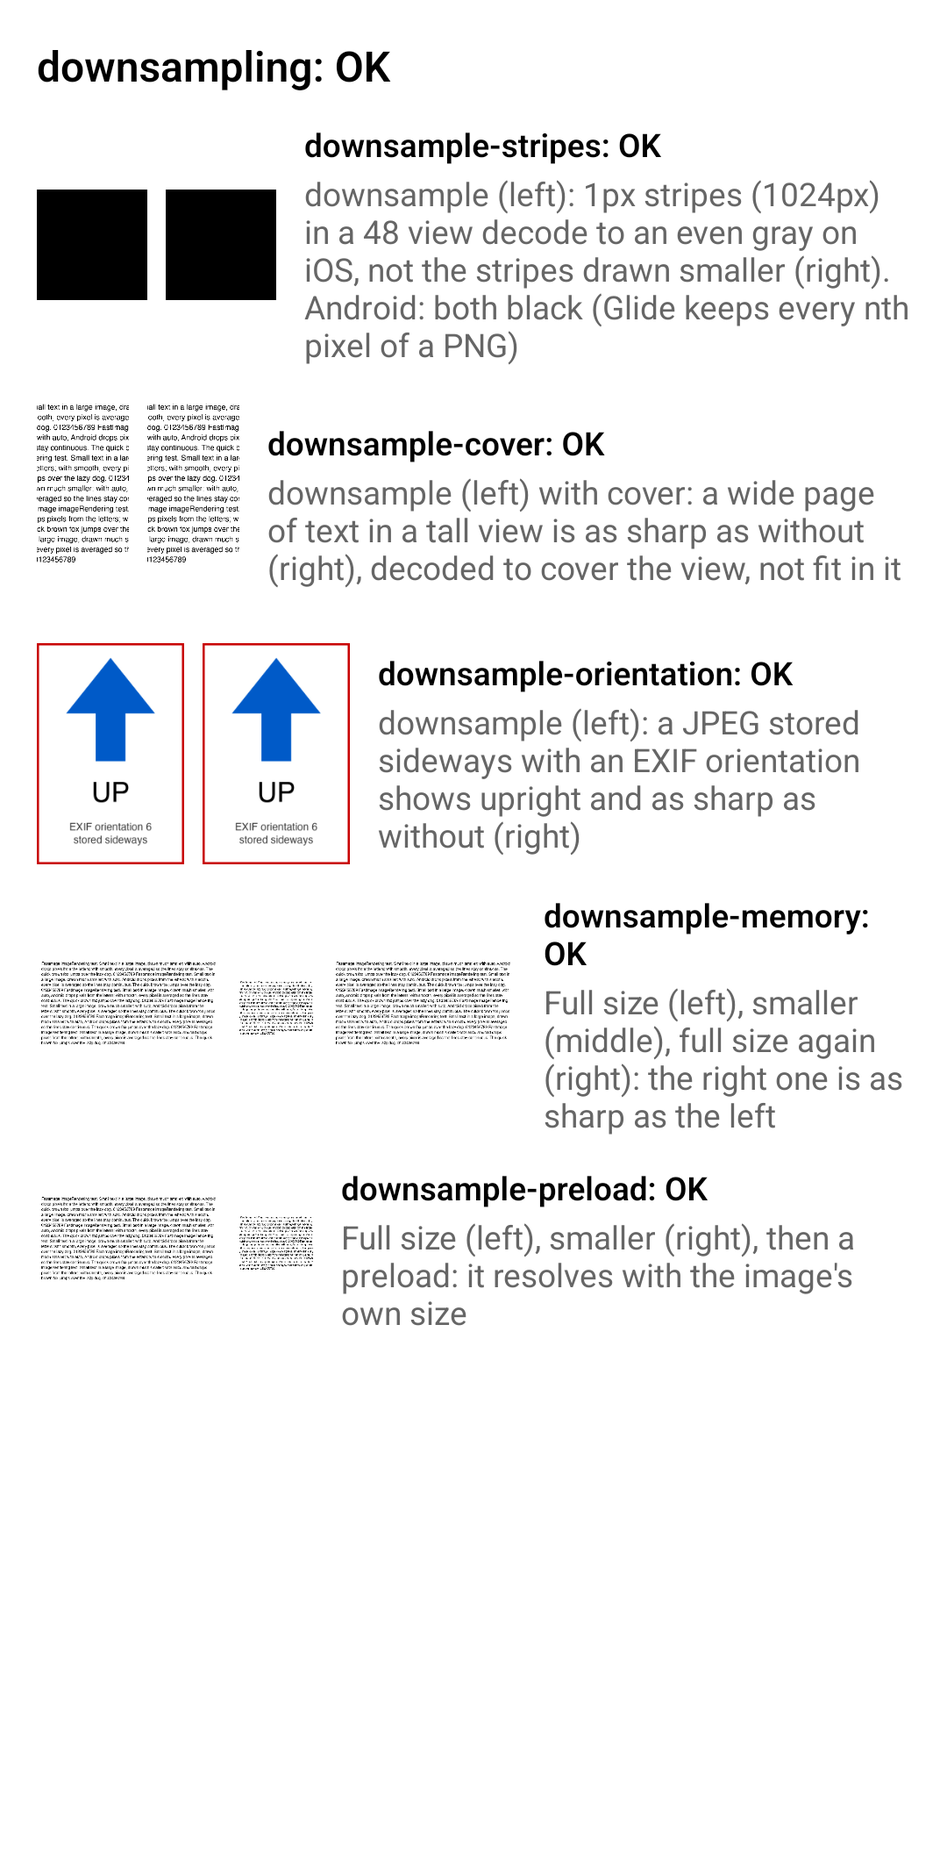
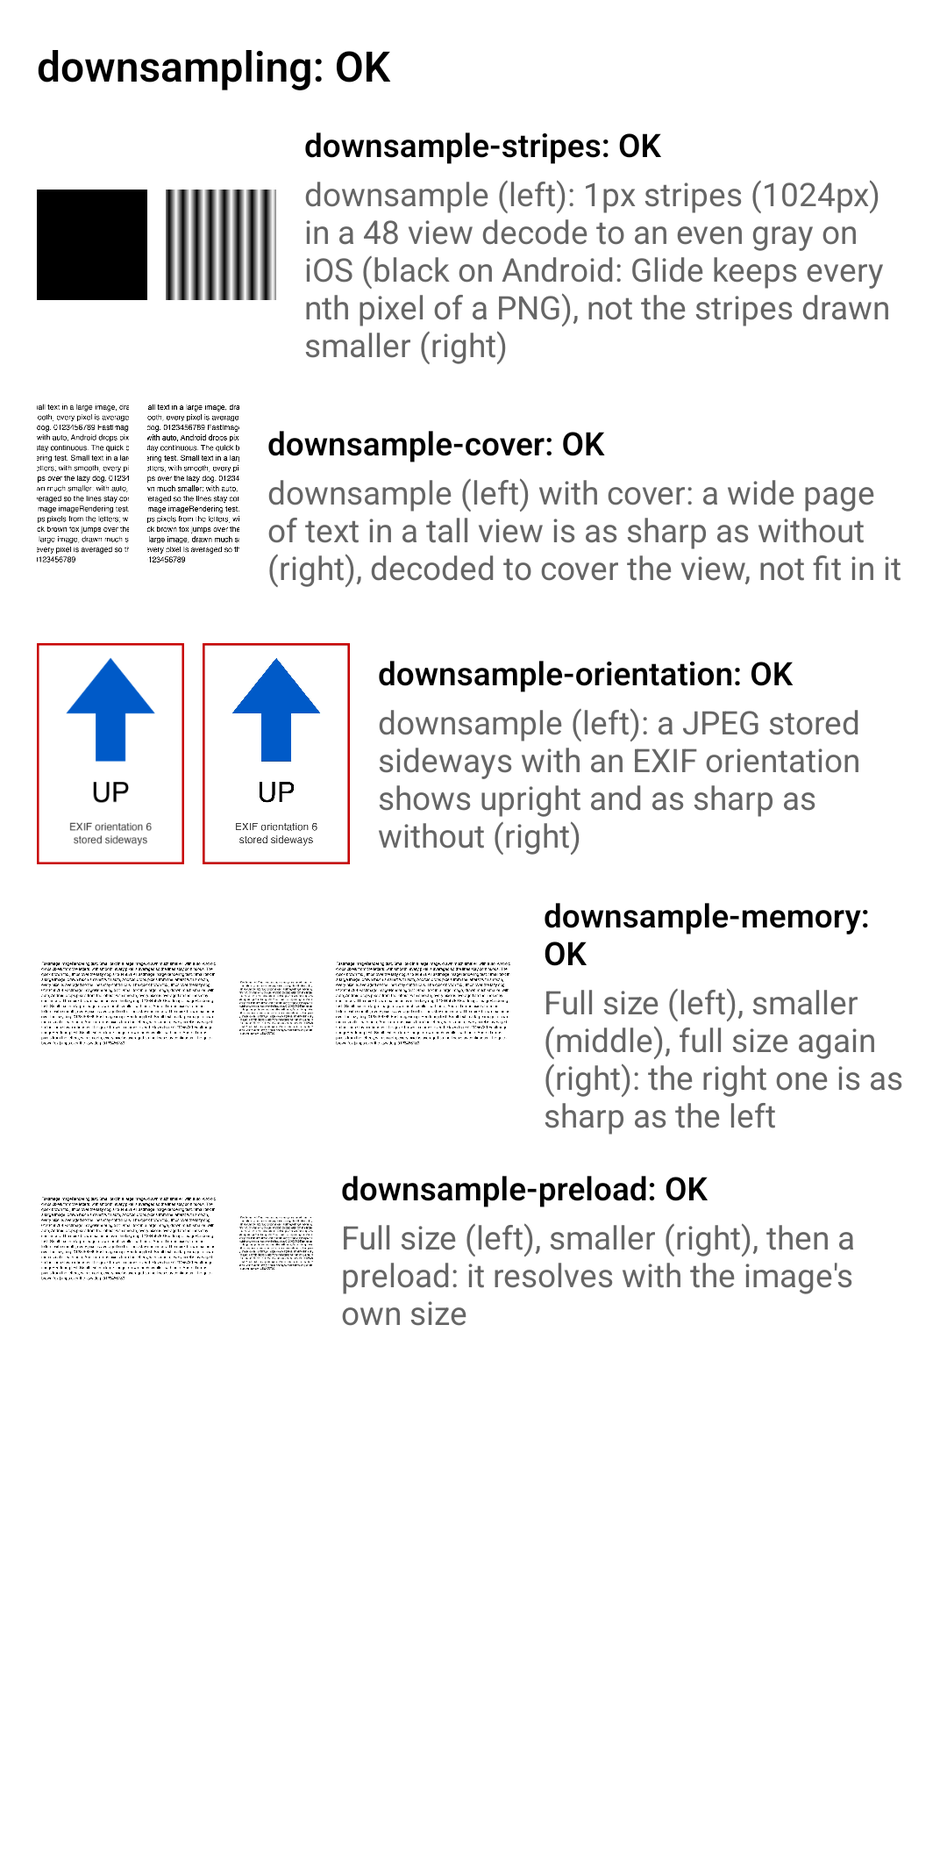
fix(android): downsample={false} decodes images at full size
Android decoded every image at about the view's size, whatever downsample
said, so an image zoomed in on with a transform showed a small copy
enlarged. With downsample false, images (GIFs included) are decoded at
their own size, scaled down to at most 16 megapixels so they can still be
drawn, and aren't cropped or fitted to the view; SVGs are still drawn at
the view's size. downsample isn't documented as iOS only anymore.

diff --git a/ReactNativeFastImageExample/src/RegressionExample.tsx b/ReactNativeFastImageExample/src/RegressionExample.tsx
@@ -6181,6 +6181,46 @@ function DownsamplePreloadCase() {
     )
 }
 
+// A view zoomed in on with a transform, as a pinch-to-zoom viewer does: a
+// page of text (1600x1000) in an 80x50 view drawn 4 times larger, its top
+// left corner showing. With downsample false (right) it's decoded at full
+// size, so the text is sharp; downsampled (left), it's decoded at about the
+// view's size, so it's enlarged and blurry. Android decoded both at about the
+// view's size.
+function DownsampleZoomCase() {
+    const [status, onLoad] = useLoadedThenOk(2)
+    const source = { uri: imageUrl('text-page.png?case=downsample-zoom') }
+    return (
+        <View style={blurStyles.stacked}>
+            <View style={blurStyles.images}>
+                {[true, false].map((downsample) => (
+                    <View
+                        key={String(downsample)}
+                        style={[
+                            downsampleStyles.zoomClip,
+                            !downsample && styles.gap,
+                        ]}
+                    >
+                        <FastImage
+                            style={downsampleStyles.zoomed}
+                            source={source}
+                            downsample={downsample}
+                            onLoad={onLoad}
+                        />
+                    </View>
+                ))}
+            </View>
+            <View style={blurStyles.status}>
+                <CaseStatus
+                    id="downsample-zoom"
+                    status={status}
+                    description="A view zoomed in on 4 times with a transform: downsampled (left) the text is blurry, with downsample={false} (right) it's sharp"
+                />
+            </View>
+        </View>
+    )
+}
+
 const downsampleStyles = StyleSheet.create({
     page: { width: 80, height: 50 },
     large: { width: 96, height: 96, backgroundColor: '#eee' },
@@ -6189,6 +6229,21 @@ const downsampleStyles = StyleSheet.create({
     fill: { flex: 1 },
     tall: { width: 40, height: 96 },
     rotated: { width: 64, height: 96 },
+    zoomClip: {
+        width: 140,
+        height: 88,
+        overflow: 'hidden',
+        backgroundColor: '#eee',
+    },
+    // Scaled about its center, so it spans 320x200 from the clip's top left.
+    zoomed: {
+        position: 'absolute',
+        left: 120,
+        top: 75,
+        width: 80,
+        height: 50,
+        transform: [{ scale: 4 }],
+    },
 })
 
 // Photo library images (ph://, iOS, with SDWebImagePhotosPlugin, which
@@ -7275,7 +7330,7 @@ export const REGRESSION_GROUPS: RegressionGroup[] = [
             <DownsampleCase
                 key="downsample-stripes"
                 id="downsample-stripes"
-                description="downsample (left): 1px stripes (1024px) in a 48 view decode to an even gray on iOS, not the stripes drawn smaller (right). Android: both black (Glide keeps every nth pixel of a PNG)"
+                description="downsample (left): 1px stripes (1024px) in a 48 view decode to an even gray on iOS (black on Android: Glide keeps every nth pixel of a PNG), not the stripes drawn smaller (right)"
                 image="stripes.png"
                 size="1024x1024"
                 style={downsampleStyles.stripes}
@@ -7311,6 +7366,10 @@ export const REGRESSION_GROUPS: RegressionGroup[] = [
             <DownsamplePreloadingCase key="downsample-preloading" />,
             <DownsampleOrderCase key="downsample-order" />,
         ],
+    },
+    {
+        name: 'downsample-zoom',
+        cases: [<DownsampleZoomCase key="downsample-zoom" />],
     },
     {
         name: 'loading',

diff --git a/src/index.tsx b/src/index.tsx
@@ -395,8 +395,7 @@ export interface FastImageProps extends AccessibilityProps, ViewProps {
      *   at less than half their size with `downsample={false}`, or a little
      *   smaller than their size. **It uses more memory:** the image is also
      *   kept at smaller sizes for drawing, about a third more than the decoded
-     *   image. On Android it's the same as `'auto'` (images are always decoded
-     *   at about the view's size there).
+     *   image. On Android it's the same as `'auto'`.
      * - `'pixelated'`: sharp pixels, without smoothing, e.g. for pixel art
      *   drawn larger than its size. On Android, animated images are still
      *   smoothed.
@@ -435,25 +434,29 @@ export interface FastImageProps extends AccessibilityProps, ViewProps {
      * full size, so it takes much less memory.
      *
      * - `true`: an image at least twice the size its view needs is decoded
-     *   at about the view's size. If the view grows, the image is decoded
-     *   again for its new size (from the disk cache).
+     *   at about the view's size (on Android, any image larger than its
+     *   view). If the view grows, the image is decoded again for its new size
+     *   (from the disk cache).
      * - `false`: images are decoded at full size, e.g. for an image that's
      *   zoomed in on with a transform (a pinch-to-zoom viewer), which would
-     *   otherwise show the smaller copy enlarged.
+     *   otherwise show the smaller copy enlarged. **It uses more memory:** a
+     *   12-megapixel photo takes about 48 MB decoded, however small it's
+     *   shown. On Android, an image over 16 megapixels (4096 × 4096) is
+     *   decoded at the largest size under that, which Android can still
+     *   draw.
      *
      * It doesn't change `onLoad`'s width and height (the image's own size) or
-     * the cached file. Needs SDWebImage 5.19.7 or later: before 5.19 images
-     * are decoded at full size, and 5.19.0 to 5.19.6 show photos stored
-     * sideways with an EXIF orientation (most phone photos) sideways. Photo
-     * library images are always decoded this way, and on Android images are
-     * always decoded at about the view's size (but Android 16 and later
-     * decode animated WebP at full size, and scale it as they draw it).
+     * the cached file. On iOS it needs SDWebImage 5.19.7 or later: before
+     * 5.19 images are decoded at full size, and 5.19.0 to 5.19.6 show photos
+     * stored sideways with an EXIF orientation (most phone photos) sideways.
+     * Photo library images are always decoded at about the view's size.
+     * Android 16 and later decode animated WebP at full size either way, and
+     * scale it as they draw it.
      *
      * If you control the images, serve them at the size they're shown
      * (resized on your server or by an image CDN), which also saves
      * bandwidth.
      *
-     * @platform ios
      * @default true
      */
     downsample?: boolean

diff --git a/android/src/main/java/com/dylanvann/fastimage/FastImageSourceSize.java b/android/src/main/java/com/dylanvann/fastimage/FastImageSourceSize.java
@@ -49,22 +49,41 @@ final class FastImageSourceSize {
     // options, so the size is recorded by image rather than by request.
     static final class Capture extends DownsampleStrategy {
         private final DownsampleStrategy strategy;
+        // What an SVG is drawn at (see FastImageSvgRenderer): the strategy for
+        // the view's scale type, also when images are decoded at full size
+        // (downsample false). An SVG has no size of its own to decode at, and
+        // drawn at the view's size it's already sharp.
+        private final DownsampleStrategy vectorStrategy;
         private final String key;
         private boolean recorded;
 
         Capture(DownsampleStrategy strategy, String key) {
+            this(strategy, strategy, key);
+        }
+
+        Capture(DownsampleStrategy strategy, DownsampleStrategy vectorStrategy, String key) {
             this.strategy = strategy;
+            this.vectorStrategy = vectorStrategy;
             this.key = key;
         }
 
-        @Override
-        public float getScaleFactor(int sourceWidth, int sourceHeight, int requestedWidth, int requestedHeight) {
+        private void record(int sourceWidth, int sourceHeight) {
             // Called again with the sampled size; the first call has the image's.
             if (!recorded) {
                 recorded = true;
                 SIZES.put(key, new int[]{sourceWidth, sourceHeight});
             }
+        }
+
+        @Override
+        public float getScaleFactor(int sourceWidth, int sourceHeight, int requestedWidth, int requestedHeight) {
+            record(sourceWidth, sourceHeight);
             return strategy.getScaleFactor(sourceWidth, sourceHeight, requestedWidth, requestedHeight);
+        }
+
+        float getVectorScaleFactor(int sourceWidth, int sourceHeight, int requestedWidth, int requestedHeight) {
+            record(sourceWidth, sourceHeight);
+            return vectorStrategy.getScaleFactor(sourceWidth, sourceHeight, requestedWidth, requestedHeight);
         }
 
         @Override
@@ -73,26 +92,29 @@ final class FastImageSourceSize {
         }
 
         // Glide's memory cache keys include the strategy, so match the wrapped
-        // one to keep sharing cached images between views.
+        // ones to keep sharing cached images between views.
         @Override
         public boolean equals(Object o) {
-            return o instanceof Capture && ((Capture) o).strategy.equals(strategy);
+            return o instanceof Capture && ((Capture) o).strategy.equals(strategy)
+                    && ((Capture) o).vectorStrategy.equals(vectorStrategy);
         }
 
         @Override
         public int hashCode() {
-            return strategy.hashCode();
+            return 31 * strategy.hashCode() + vectorStrategy.hashCode();
         }
     }
 
     // What RequestBuilder.into(ImageView) applies for the view's scale type
     // (it leaves a transformation that's already set alone), with the
     // downsample strategy it implies wrapped by capture, and then blur if it
-    // isn't null.
-    static RequestOptions scaleTypeOptions(@Nullable ImageView.ScaleType scaleType, Capture capture, @Nullable FastImageBlur blur) {
+    // isn't null. Not downsampled (downsample false), the image isn't cropped
+    // or fitted to the view's size either: the view scales it as it draws it.
+    static RequestOptions scaleTypeOptions(@Nullable ImageView.ScaleType scaleType, Capture capture, @Nullable FastImageBlur blur,
+            boolean downsample) {
         RequestOptions options = new RequestOptions();
         BitmapTransformation transformation = null;
-        if (scaleType != null) {
+        if (scaleType != null && downsample) {
             switch (scaleType) {
                 case CENTER_CROP:
                     options = options.optionalCenterCrop();
@@ -121,8 +143,9 @@ final class FastImageSourceSize {
         return options.downsample(capture);
     }
 
-    static Capture capture(@Nullable ImageView.ScaleType scaleType, Object model) {
-        return new Capture(strategy(scaleType), String.valueOf(model));
+    static Capture capture(@Nullable ImageView.ScaleType scaleType, Object model, boolean downsample) {
+        DownsampleStrategy strategy = strategy(scaleType);
+        return new Capture(downsample ? strategy : FULL_SIZE, strategy, String.valueOf(model));
     }
 
     private static DownsampleStrategy strategy(@Nullable ImageView.ScaleType scaleType) {
@@ -145,11 +168,12 @@ final class FastImageSourceSize {
     }
 
     // At the image's own size (objectFit none shows it at that size, whatever
-    // the view's), or scaled down to at most MAX_PIXELS pixels, which a
-    // bitmap can be drawn at (Android won't draw one over 100 MB).
+    // the view's, and downsample false decodes every image this way), or
+    // scaled down to at most MAX_PIXELS pixels, which a bitmap can be drawn at
+    // (Android won't draw one over 100 MB).
     static final DownsampleStrategy FULL_SIZE = new FullSize();
 
-    private static final float MAX_PIXELS = 4096f * 4096f;
+    static final float MAX_PIXELS = 4096f * 4096f;
 
     private static final class FullSize extends DownsampleStrategy {
         @Override

diff --git a/android/src/main/java/com/dylanvann/fastimage/FastImageViewWithUrl.java b/android/src/main/java/com/dylanvann/fastimage/FastImageViewWithUrl.java
@@ -659,7 +659,7 @@ class FastImageViewWithUrl extends AppCompatImageView implements ReactPointerEve
             }
             if (resource instanceof GifDrawable) {
                 GifDrawable own = FastImageGif.copy(
-                        getContext(), (GifDrawable) resource, mLoadingWidth, mLoadingHeight);
+                        getContext(), (GifDrawable) resource, mLoadingWidth, mLoadingHeight, !mDownsample);
                 if (own != null) {
                     applyLoopCount(own);
                     super.onResourceReady(own, transition);
@@ -918,15 +918,27 @@ class FastImageViewWithUrl extends AppCompatImageView implements ReactPointerEve
 
     // imageRendering="pixelated": no resampling by Glide, and drawn without
     // filtering (sharp pixels). "smooth" is iOS only; here it's the same as
-    // "auto": Glide already decodes a large image at about the view's size, and
-    // averaging it properly would need a full-size decode. Part of the
-    // request, so a change reloads.
+    // "auto": Glide decodes a large image at about the view's size (unless
+    // downsample is false), and averaging it properly would need mipmaps or
+    // a full-size decode. Part of the request, so a change reloads.
     private boolean mPixelated = false;
 
     public void setImageRendering(@Nullable String imageRendering) {
         boolean pixelated = "pixelated".equals(imageRendering);
         if (pixelated == mPixelated) return;
         mPixelated = pixelated;
+        mNeedsReload = true;
+    }
+
+    // downsample false: images are decoded at their own size (capped, see
+    // FastImageSourceSize.FULL_SIZE), not cropped or fitted to the view's
+    // size, so a view zoomed in on with a transform shows the image's detail.
+    // Part of the request, so a change reloads.
+    private boolean mDownsample = true;
+
+    public void setDownsample(boolean downsample) {
+        if (downsample == mDownsample) return;
+        mDownsample = downsample;
         mNeedsReload = true;
     }
 
@@ -968,8 +980,8 @@ class FastImageViewWithUrl extends AppCompatImageView implements ReactPointerEve
                     .dontTransform();
             if (blur != null) options = options.optionalTransform(blur);
         } else {
-            options = FastImageSourceSize.scaleTypeOptions(
-                    mResizeScaleType, FastImageSourceSize.capture(mResizeScaleType, model), blur);
+            options = FastImageSourceSize.scaleTypeOptions(mResizeScaleType,
+                    FastImageSourceSize.capture(mResizeScaleType, model, mDownsample), blur, mDownsample);
             boolean ownSize = mResizeScaleType == ScaleType.CENTER_INSIDE || mResizeScaleType == ScaleType.CENTER;
             // scale-down and none show it at its own size in dp: an SVG is
             // drawn at that size, so it's sharp (not with a blur, which hides

diff --git a/android/src/main/java/com/dylanvann/fastimage/FastImageGif.java b/android/src/main/java/com/dylanvann/fastimage/FastImageGif.java
@@ -34,8 +34,10 @@ final class FastImageGif {
     private FastImageGif() {}
 
     // Null if the GIF can't be decoded again (then the view shows Glide's).
+    // Full size (downsample false): at the GIF's own size, or sampled down to
+    // at most FastImageSourceSize.MAX_PIXELS pixels.
     @Nullable
-    static GifDrawable copy(Context context, GifDrawable gif, int width, int height) {
+    static GifDrawable copy(Context context, GifDrawable gif, int width, int height, boolean fullSize) {
         if (width <= 0 || height <= 0) return null;
         ByteBuffer data = gif.getBuffer();
         GifHeader header = new GifHeaderParser().setData(data).parseHeader();
@@ -44,7 +46,7 @@ final class FastImageGif {
         BitmapPool bitmapPool = glide.getBitmapPool();
         GifDecoder decoder = new StandardGifDecoder(
                 new GifBitmapProvider(bitmapPool, glide.getArrayPool()),
-                header, gif.getBuffer(), sampleSize(header, width, height));
+                header, gif.getBuffer(), fullSize ? fullSizeSampleSize(header) : sampleSize(header, width, height));
         decoder.setDefaultBitmapConfig(Bitmap.Config.ARGB_8888);
         decoder.advance();
         Bitmap firstFrame = decoder.getNextFrame();
@@ -99,6 +101,15 @@ final class FastImageGif {
         } catch (Exception e) {
             return null;
         }
+    }
+
+    private static int fullSizeSampleSize(GifHeader header) {
+        int sampleSize = 1;
+        while ((float) (header.getWidth() / sampleSize) * (header.getHeight() / sampleSize)
+                > FastImageSourceSize.MAX_PIXELS) {
+            sampleSize *= 2;
+        }
+        return sampleSize;
     }
 
     // ByteBufferGifDecoder's.

diff --git a/android/src/main/java/com/dylanvann/fastimage/FastImageSvgRenderer.java b/android/src/main/java/com/dylanvann/fastimage/FastImageSvgRenderer.java
@@ -63,13 +63,17 @@ final class FastImageSvgRenderer {
         int sourceHeight = Math.max(1, Math.round(ownHeight));
 
         // The strategy also records the SVG's own size for onLoad
-        // (FastImageSourceSize.Capture).
+        // (FastImageSourceSize.Capture), and has the one for the view when
+        // images are decoded at full size (downsample false).
         DownsampleStrategy strategy = options.get(DownsampleStrategy.OPTION);
         int targetWidth = width > 0 ? width : sourceWidth;
         int targetHeight = height > 0 ? height : sourceHeight;
-        float scale = strategy != null
-                ? strategy.getScaleFactor(sourceWidth, sourceHeight, targetWidth, targetHeight)
-                : 1f;
+        float scale = strategy instanceof FastImageSourceSize.Capture
+                ? ((FastImageSourceSize.Capture) strategy).getVectorScaleFactor(
+                        sourceWidth, sourceHeight, targetWidth, targetHeight)
+                : strategy != null
+                        ? strategy.getScaleFactor(sourceWidth, sourceHeight, targetWidth, targetHeight)
+                        : 1f;
         // objectFit scale-down and none: at its own size in dp (see
         // FastImageSvg.DENSITY), and for scale-down no larger than the view.
         Float density = options.get(FastImageSvg.DENSITY);

diff --git a/android/src/main/java/com/dylanvann/fastimage/FastImageViewManager.java b/android/src/main/java/com/dylanvann/fastimage/FastImageViewManager.java
@@ -147,6 +147,11 @@ class FastImageViewManager extends SimpleViewManager<FastImageViewWithUrl> {
         view.setImageRendering(imageRendering);
     }
 
+    @ReactProp(name = "downsample", defaultBoolean = true)
+    public void setDownsample(FastImageViewWithUrl view, boolean downsample) {
+        view.setDownsample(downsample);
+    }
+
     @ReactProp(name = "blurRadius")
     public void setBlurRadius(FastImageViewWithUrl view, float blurRadius) {
         view.setBlurRadius(PixelUtil.toPixelFromDIP(blurRadius));

diff --git a/README.md b/README.md
@@ -311,7 +311,7 @@ Changing it restarts the animation.
 How the image is filtered when it's drawn smaller or larger than its size (like CSS's `image-rendering`):
 
 - `'auto'`: the platform's usual filtering.
-- `'smooth'`: iOS only. Keeps a large image drawn much smaller than its size (e.g. a big photo as a thumbnail, or fine lines and text) from looking jagged or noisy. Such an image is already decoded at about the view's size by default (see `downsample`), so this is for images shown at less than half their size with `downsample={false}`, or a little smaller than their size. **It uses more memory:** the image is also kept at smaller sizes for drawing, about a third more than the decoded image. On Android it's the same as `'auto'` (images are always decoded at about the view's size there).
+- `'smooth'`: iOS only. Keeps a large image drawn much smaller than its size (e.g. a big photo as a thumbnail, or fine lines and text) from looking jagged or noisy. Such an image is already decoded at about the view's size by default (see `downsample`), so this is for images shown at less than half their size with `downsample={false}`, or a little smaller than their size. **It uses more memory:** the image is also kept at smaller sizes for drawing, about a third more than the decoded image. On Android it's the same as `'auto'`.
 - `'pixelated'`: sharp pixels, without smoothing, e.g. for pixel art drawn larger than its size. On Android, animated images are still smoothed.
 
 ---
@@ -342,14 +342,14 @@ Downloads, local files (`file://`, `content://`) and bundled images (`require()`
 
 #### `downsample`
 
-**Type:** `boolean` · **Default:** `true` · iOS only
+**Type:** `boolean` · **Default:** `true`
 
 Decodes a large image at about the size it's shown at, instead of at full size, so it takes much less memory.
 
-- `true`: an image at least twice the size its view needs is decoded at about the view's size. If the view grows, the image is decoded again for its new size (from the disk cache).
-- `false`: images are decoded at full size, e.g. for an image that's zoomed in on with a transform (a pinch-to-zoom viewer), which would otherwise show the smaller copy enlarged.
+- `true`: an image at least twice the size its view needs is decoded at about the view's size (on Android, any image larger than its view). If the view grows, the image is decoded again for its new size (from the disk cache).
+- `false`: images are decoded at full size, e.g. for an image that's zoomed in on with a transform (a pinch-to-zoom viewer), which would otherwise show the smaller copy enlarged. **It uses more memory:** a 12-megapixel photo takes about 48 MB decoded, however small it's shown. On Android, an image over 16 megapixels (4096 × 4096) is decoded at the largest size under that, which Android can still draw.
 
-It doesn't change `onLoad`'s width and height (the image's own size) or the cached file. Needs SDWebImage 5.19.7 or later: before 5.19 images are decoded at full size, and 5.19.0 to 5.19.6 show photos stored sideways with an EXIF orientation (most phone photos) sideways. Photo library images are always decoded this way, and on Android images are always decoded at about the view's size (but Android 16 and later decode animated WebP at full size, and scale it as they draw it).
+It doesn't change `onLoad`'s width and height (the image's own size) or the cached file. On iOS it needs SDWebImage 5.19.7 or later: before 5.19 images are decoded at full size, and 5.19.0 to 5.19.6 show photos stored sideways with an EXIF orientation (most phone photos) sideways. Photo library images are always decoded at about the view's size. Android 16 and later decode animated WebP at full size either way, and scale it as they draw it.
 
 If you control the images, serve them at the size they're shown (resized on your server or by an image CDN), which also saves bandwidth.
 
